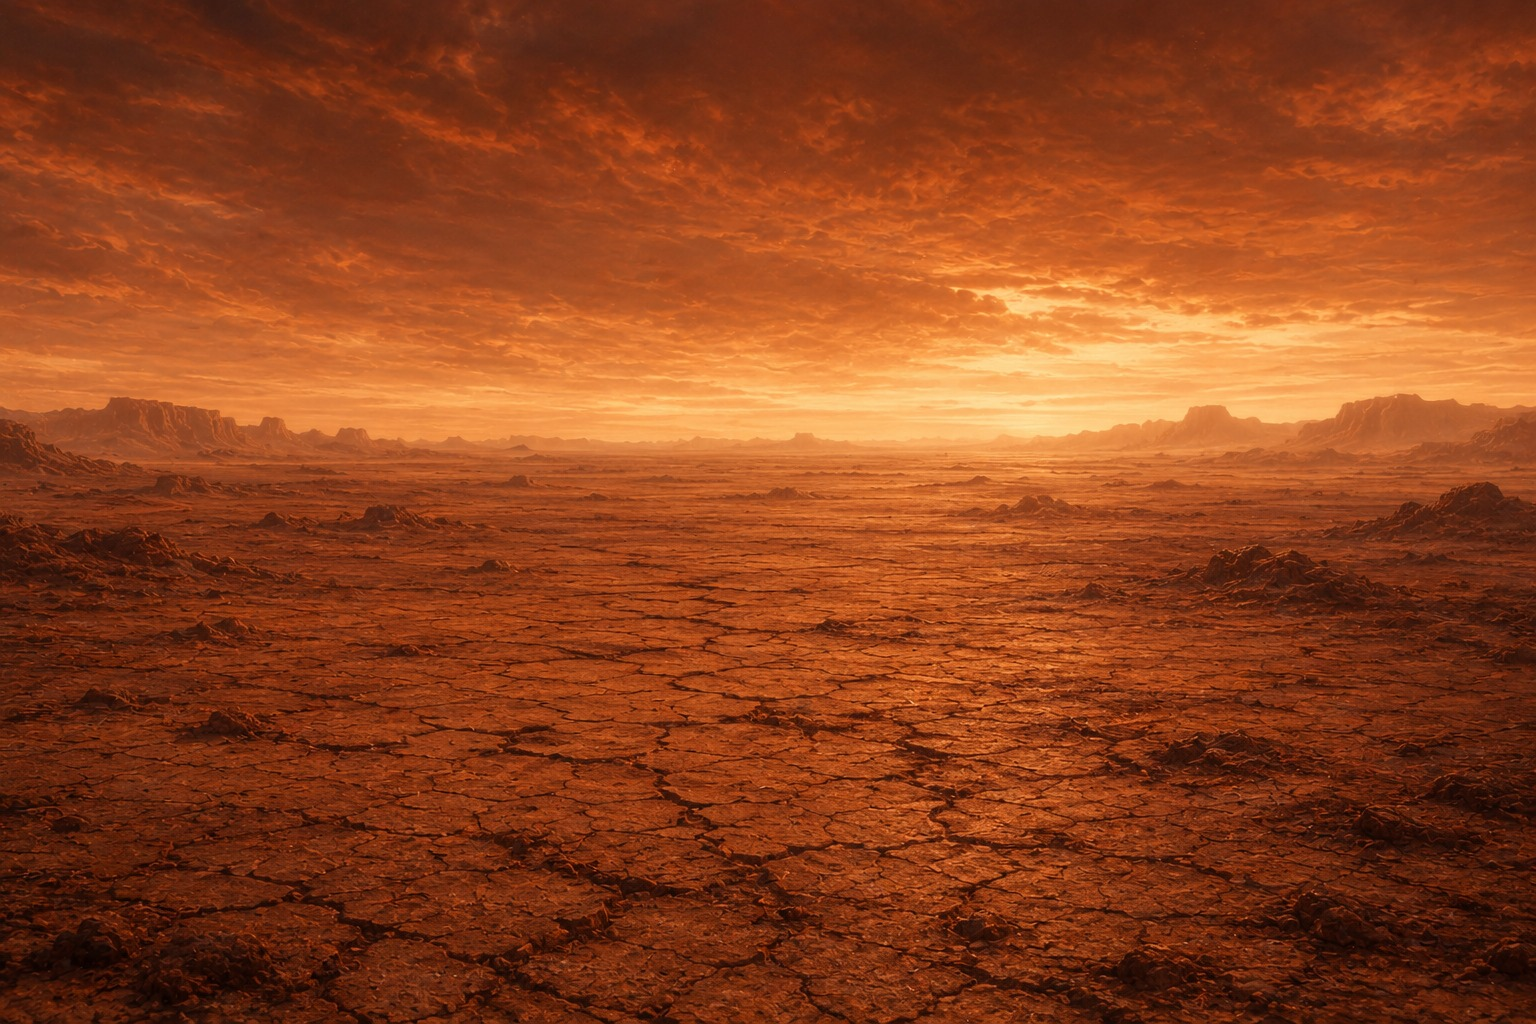
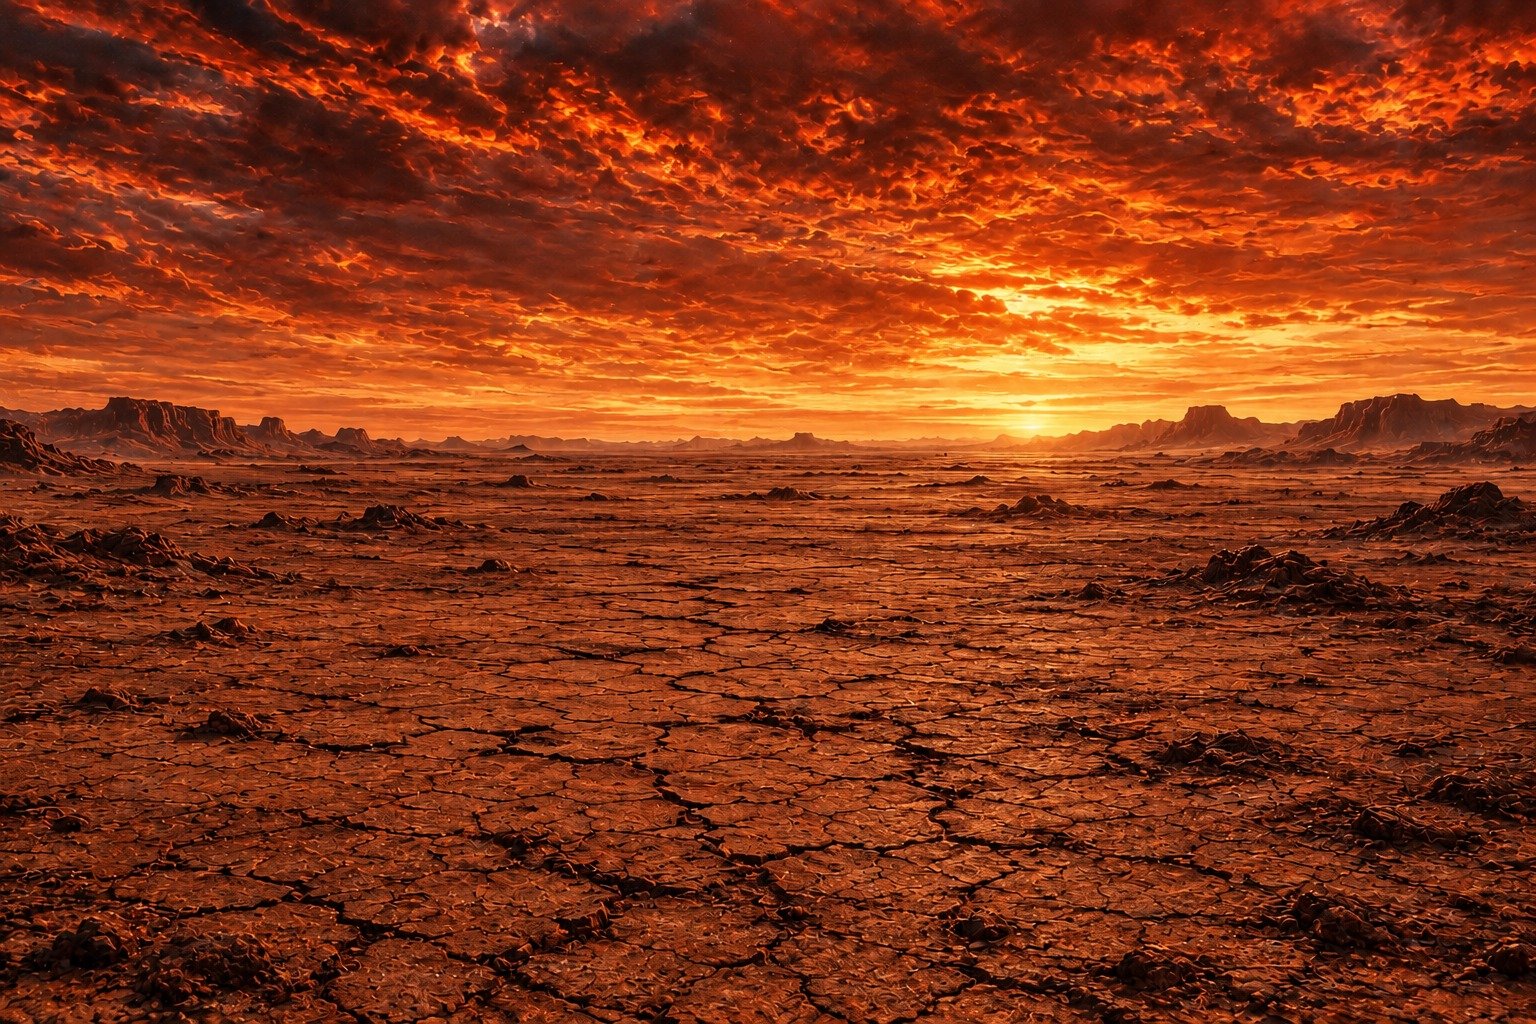
Posar el fons nou al capítol 1
La imatge que ha pujat en Miquel passa a ser el fons de «Tierra yerma».
Li canvio el nom a capitulo-1.jpeg, que és el que busca la web, i
substitueix la que hi havia.

Claude-Session: https://claude.ai/code/session_01GKrSvxo6zfT4erwbxr9Umu

diff --git a/index.html b/index.html
@@ -14,7 +14,7 @@
 <link rel="preconnect" href="https://fonts.googleapis.com">
 <link rel="preconnect" href="https://fonts.gstatic.com" crossorigin>
 <link href="https://fonts.googleapis.com/css2?family=Playfair+Display:ital,wght@0,400;0,500;0,600;0,700;1,400;1,500&family=EB+Garamond:ital,wght@0,400;0,500;0,600;1,400;1,500&display=swap" rel="stylesheet">
-<link rel="stylesheet" href="assets/css/estilo.css?v=20261001e">
+<link rel="stylesheet" href="assets/css/estilo.css?v=20261001f">
 <script>document.documentElement.className = 'con-js';</script>
 </head>
 <body>
@@ -324,6 +324,6 @@
 
 </div>
 
-<script src="assets/js/libro.js?v=20261001e"></script>
+<script src="assets/js/libro.js?v=20261001f"></script>
 </body>
 </html>
